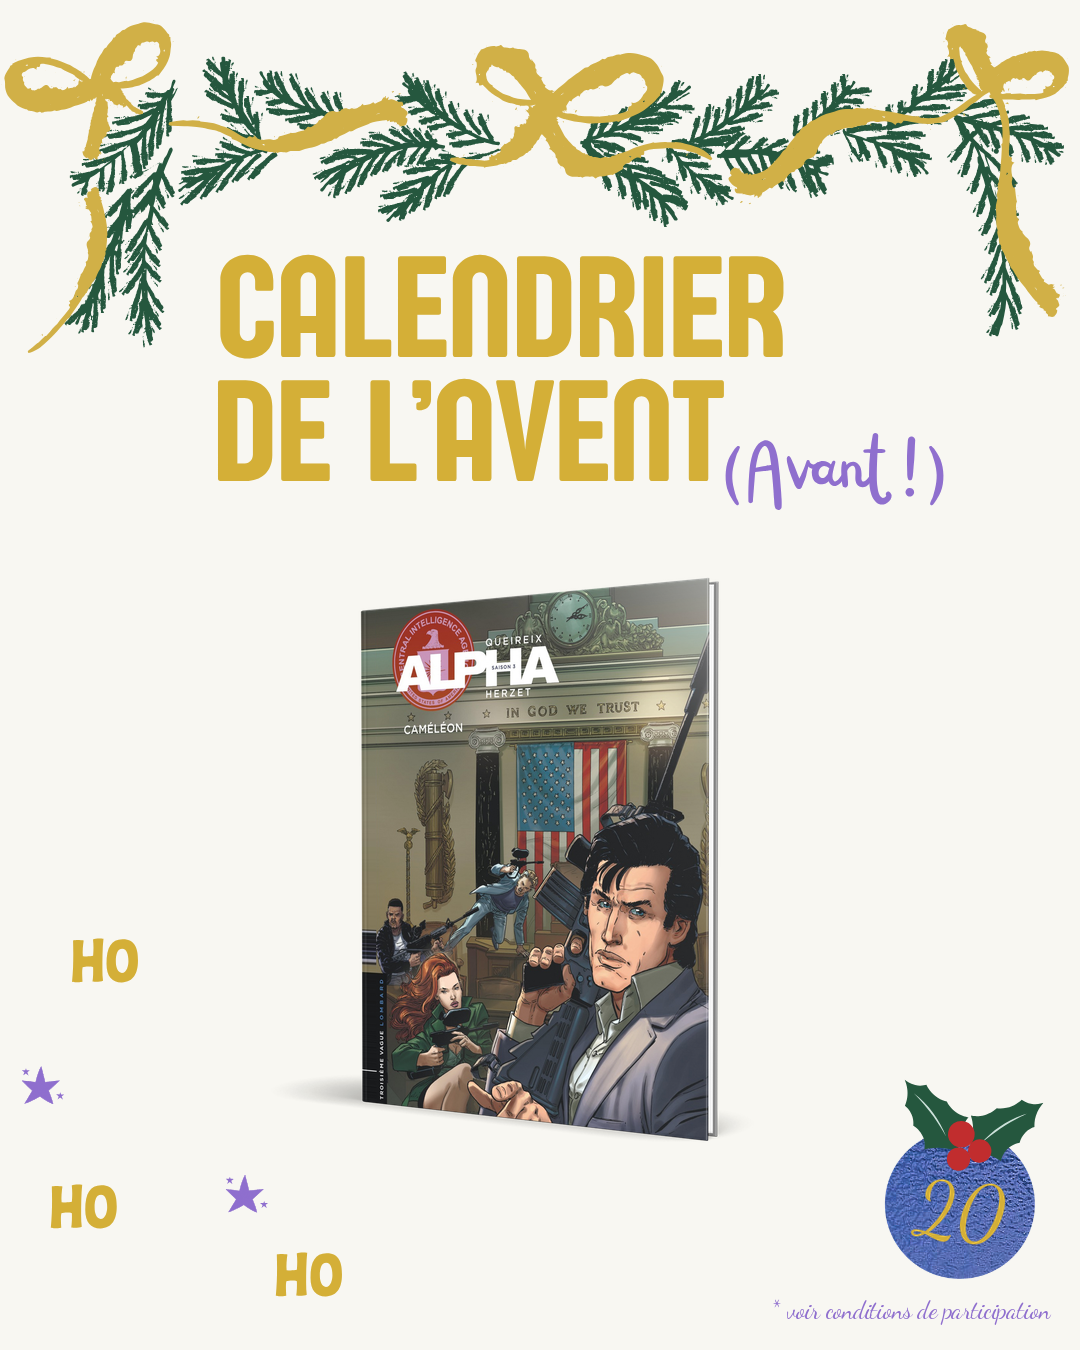
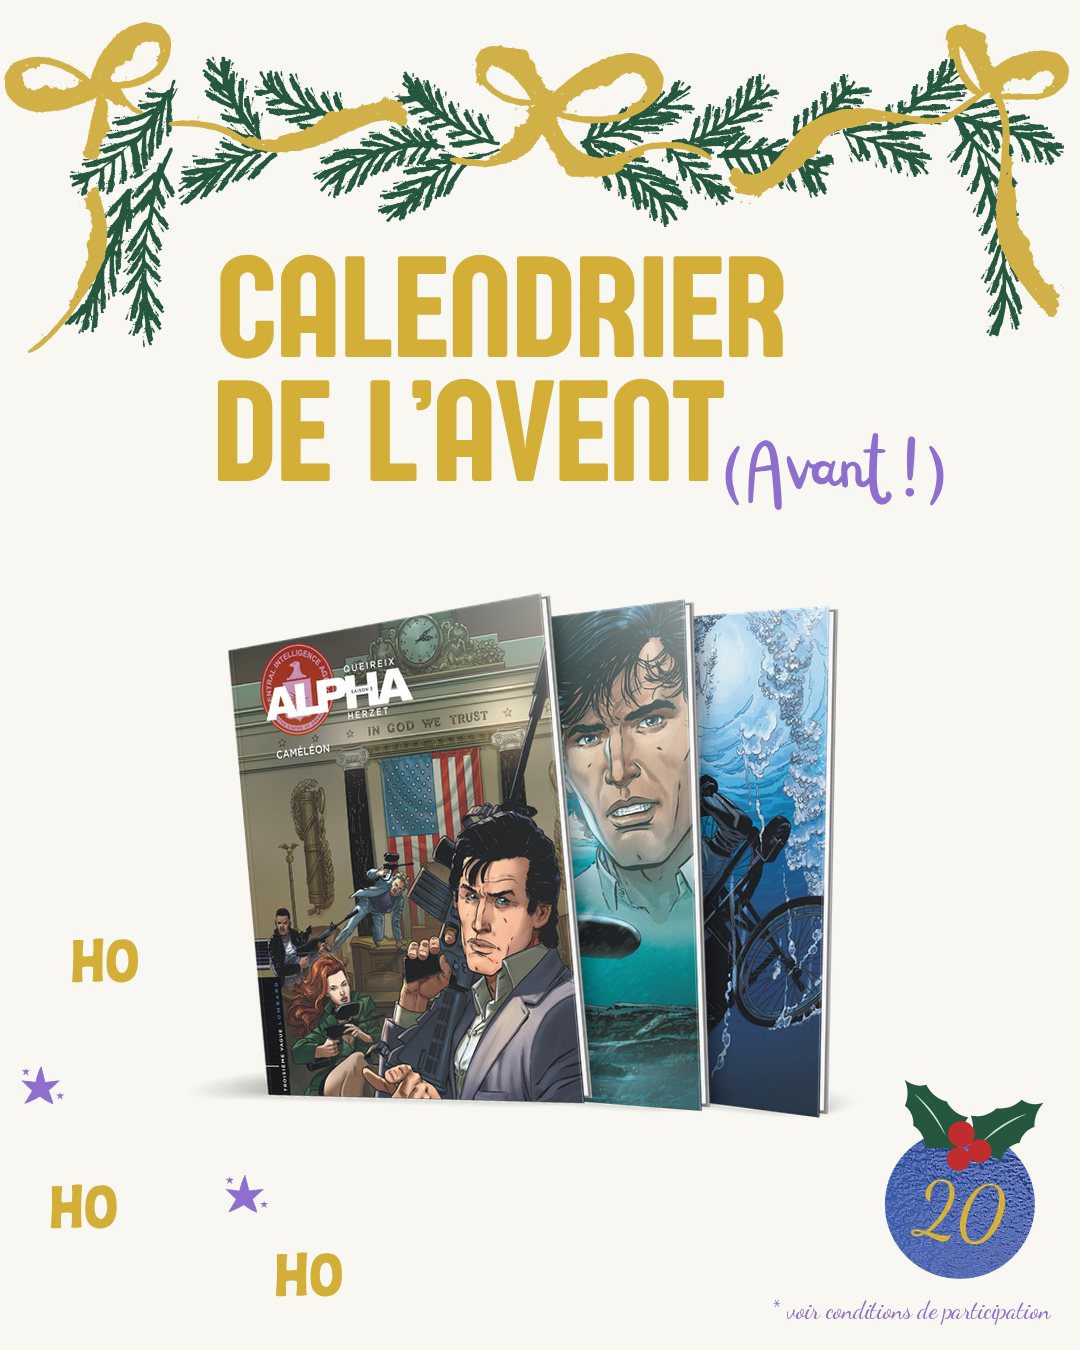
Calendrier Avant : jour 20, Alpha 21, 20, 19 en éventail
Claude-Session: https://claude.ai/code/session_01QaZk7QZvzTVY1x8op41wve

Changed region(s): [[0.2139, 0.4044, 0.7944, 0.84]]

diff --git a/calendrier-avent-2026/planning.py b/calendrier-avent-2026/planning.py
@@ -29,7 +29,7 @@ PLANNING = [
     {'serie': ['9782808212588', '9782803676767']},                                   # 17 Mitsuo 2, 1
     'jour18',                             # 18 M.A.D. 1-3 | Sherlock Holmes contre Arsène Lupin 1-2 (voir COMPOSITIONS)
     'jour19',                             # 19 Pro gamer 1-2 | Dinodyssée 1-3 (voir COMPOSITIONS)
-    ['9782808216760'],                    # 20 Alpha 21 – Caméléon
+    {'serie': ['9782808216760', '9782808214438', '9782808212472']},                  # 20 Alpha 21, 20, 19
     ['9782808216937'],                    # 21 Les Enfants de la Résistance 10 – La guerre n'est pas finie
     ['9782808215121', '9782808214421'],   # 22 Aylin 2 + Elsbeth 2
     ['9782808218740'],                    # 23 Ducobu 30 – Duco... Bouh !
